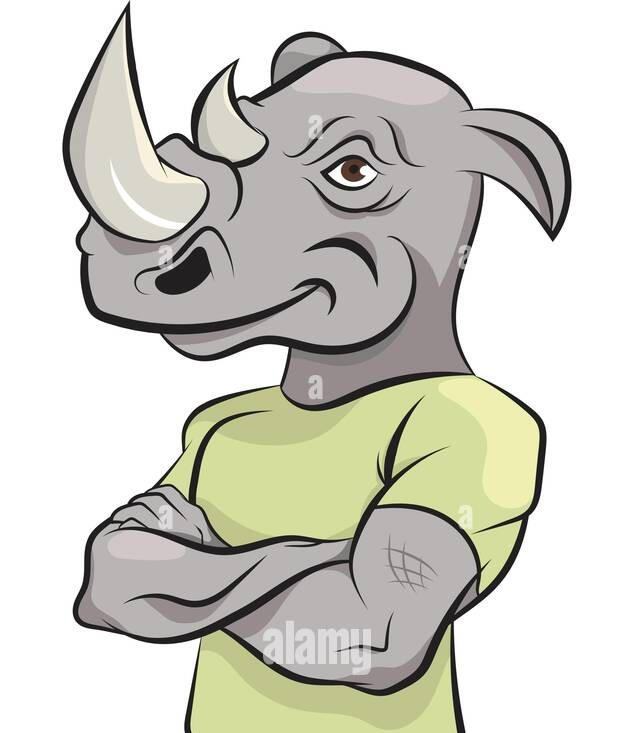
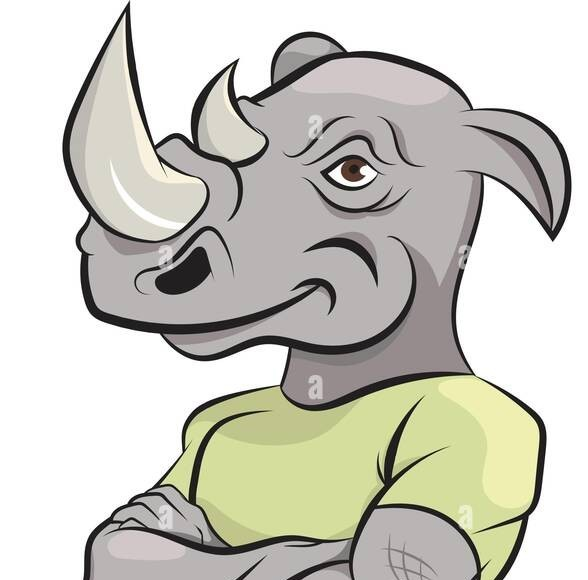
changement taille photo prof

diff --git a/css/style.css b/css/style.css
@@ -141,3 +141,28 @@ padding: 20px;
 background: #002b5c;
 color: white;
 }
+
+.teacher {
+    width: 22%;
+    text-align: center;
+}
+
+.teacher img {
+    width: 100%;
+    height: 200px;
+    object-fit: cover;
+    object-position: center;
+}
+
+html, body {
+    height: 100%;
+}
+
+body {
+    display: flex;
+    flex-direction: column;
+}
+
+main, section {
+    flex: 1;
+}

diff --git a/sitewebEfrei/accueil.html b/sitewebEfrei/accueil.html
@@ -68,7 +68,7 @@
 <p>© Département Informatique</p>
 </footer>
 
-<script src="js/script.js"></script>
+<script src="../js/script.js"></script>
 
 </body>
 </html>

diff --git a/sitewebEfrei/contact.html b/sitewebEfrei/contact.html
@@ -44,7 +44,7 @@
 <p>© Département Informatique</p>
 </footer>
 
-<script src="js/script.js"></script>
+<script src="../js/script.js"></script>
 
 </body>
 </html>